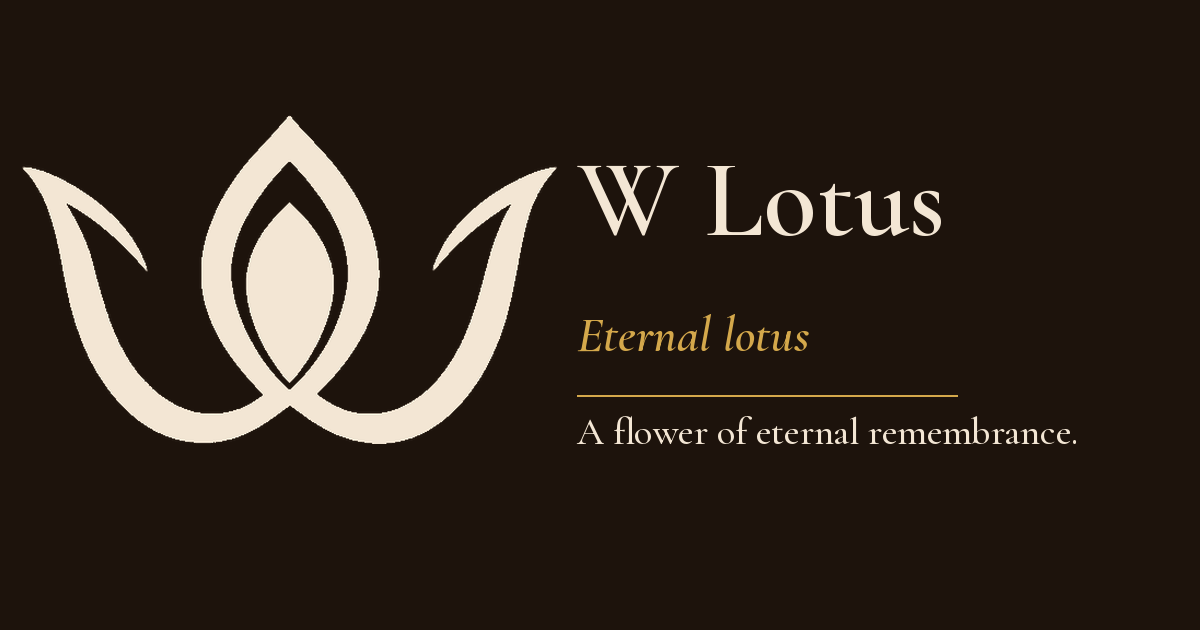
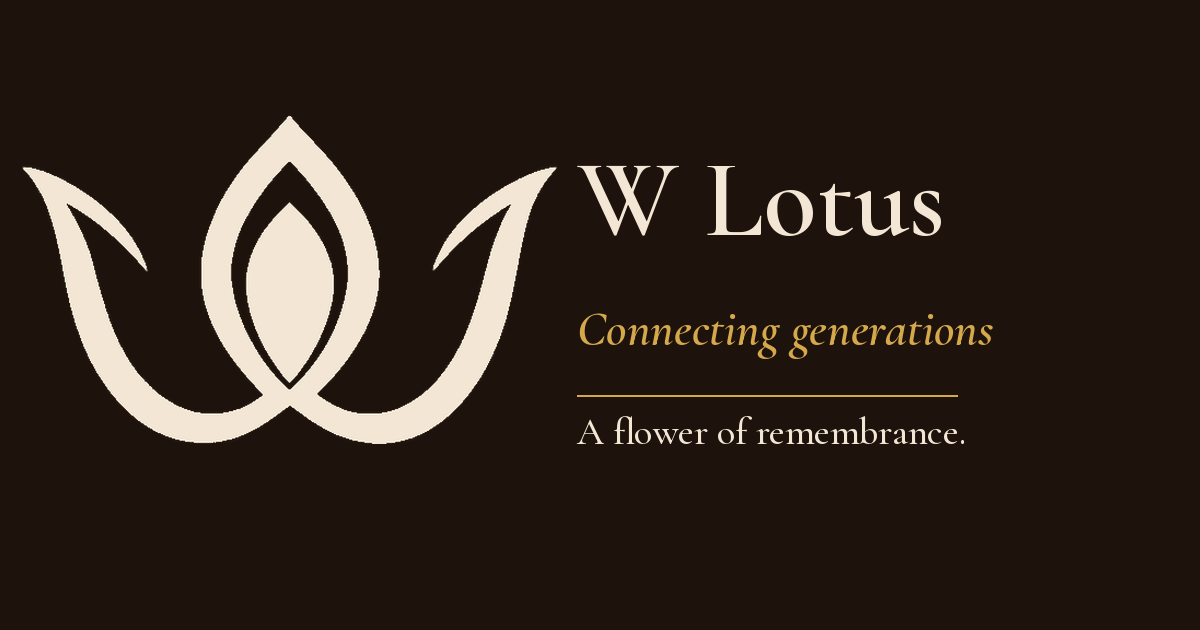
feat(web): connecting-generations headline and lotus-of-remembrance sub
Use Đoá sen (ceremonial blossom) rather than Bông. English headline is
plural: Connecting generations.

Changed region(s): [[0.4625, 0.4825, 0.8325, 0.573], [0.6167, 0.6635, 0.8942, 0.7238]]

diff --git a/apps/web/index.html b/apps/web/index.html
@@ -4,27 +4,27 @@
     <meta charset="UTF-8" />
     <meta name="viewport" content="width=device-width, initial-scale=1.0, viewport-fit=cover" />
     <meta name="theme-color" content="#0a0a0a" />
-    <meta name="description" content="Gửi lời tưởng nhớ vĩnh hằng trên W Lotus." />
+    <meta name="description" content="Đoá sen của sự tưởng nhớ." />
     <meta name="apple-mobile-web-app-capable" content="yes" />
     <meta name="apple-mobile-web-app-status-bar-style" content="black-translucent" />
     <meta name="apple-mobile-web-app-title" content="W Lotus" />
     <meta property="og:type" content="website" />
     <meta property="og:site_name" content="W Lotus" />
-    <meta property="og:title" content="W Lotus - Đoá sen vĩnh hằng" />
-    <meta property="og:description" content="Gửi lời tưởng nhớ vĩnh hằng trên W Lotus." />
+    <meta property="og:title" content="W Lotus - Sự kết nối các thế hệ" />
+    <meta property="og:description" content="Đoá sen của sự tưởng nhớ." />
     <meta property="og:image" content="/images/og.png" />
     <meta property="og:image:type" content="image/png" />
     <meta property="og:image:width" content="1200" />
     <meta property="og:image:height" content="630" />
-    <meta property="og:image:alt" content="W Lotus — đoá sen vĩnh hằng" />
+    <meta property="og:image:alt" content="W Lotus — đoá sen của sự tưởng nhớ" />
     <meta property="og:locale" content="vi_VN" />
     <meta property="og:locale:alternate" content="en_US" />
     <meta property="og:locale:alternate" content="zh_CN" />
     <meta name="twitter:card" content="summary_large_image" />
-    <meta name="twitter:title" content="W Lotus - Đoá sen vĩnh hằng" />
-    <meta name="twitter:description" content="Gửi lời tưởng nhớ vĩnh hằng trên W Lotus." />
+    <meta name="twitter:title" content="W Lotus - Sự kết nối các thế hệ" />
+    <meta name="twitter:description" content="Đoá sen của sự tưởng nhớ." />
     <meta name="twitter:image" content="/images/og.png" />
-    <meta name="twitter:image:alt" content="W Lotus — đoá sen vĩnh hằng" />
+    <meta name="twitter:image:alt" content="W Lotus — đoá sen của sự tưởng nhớ" />
     <link rel="icon" type="image/png" sizes="16x16" href="/images/wlotus-icon-16.png" />
     <link rel="icon" type="image/png" sizes="32x32" href="/images/wlotus-icon-32.png" />
     <link rel="apple-touch-icon" href="/images/wlotus-icon-180.png" />

diff --git a/tests/ogPreview.test.ts b/tests/ogPreview.test.ts
@@ -67,11 +67,9 @@ describe('ogPreview', () => {
   });
 
   it('uses brand fallback without a name', () => {
-    expect(ogCopy('vi', '').title).toBe('W Lotus - Đoá sen vĩnh hằng');
-    expect(ogCopy('vi', '').description).toBe(
-      'Gửi lời tưởng nhớ vĩnh hằng trên W Lotus.',
-    );
-    expect(ogCopy('en', '').title).toBe('W Lotus - Eternal lotus');
+    expect(ogCopy('vi', '').title).toBe('W Lotus - Sự kết nối các thế hệ');
+    expect(ogCopy('vi', '').description).toBe('Đoá sen của sự tưởng nhớ.');
+    expect(ogCopy('en', '').title).toBe('W Lotus - Connecting generations');
   });
 
   it('renders escaped OG HTML with SPA boot for browsers', () => {
@@ -96,8 +94,8 @@ describe('ogPreview', () => {
   });
 
   it('uses locale-specific image alt on the rosewood OG card', () => {
-    expect(ogImageAlt('en')).toBe('W Lotus — a flower of eternal remembrance');
-    expect(ogImageAlt('vi')).toContain('đoá sen vĩnh hằng');
+    expect(ogImageAlt('en')).toBe('W Lotus — a flower of remembrance');
+    expect(ogImageAlt('vi')).toContain('đoá sen của sự tưởng nhớ');
     const html = buildOgHtml({
       siteOrigin: 'https://wlotus.org',
       pathTxid: TX,
@@ -117,7 +115,7 @@ describe('ogPreview', () => {
       locale: 'en',
     });
     expect(en).toContain('https://test.wlotus.org/images/og-en.png');
-    expect(en).toContain('W Lotus - Eternal lotus');
+    expect(en).toContain('W Lotus - Connecting generations');
     expect(en).toContain(`?lang=en`);
     const zh = buildOgHtml({
       siteOrigin: 'https://test.wlotus.org',
@@ -125,6 +123,6 @@ describe('ogPreview', () => {
       locale: 'zh',
     });
     expect(zh).toContain('https://test.wlotus.org/images/og-zh.png');
-    expect(zh).toContain('永恒莲花');
+    expect(zh).toContain('连接世代');
   });
 });

diff --git a/apps/web/src/i18n/messages.ts b/apps/web/src/i18n/messages.ts
@@ -5,6 +5,7 @@ export type MessageKey =
   | 'brand'
   /** Wordmark next to the W logo — omit the leading W (it is in the mark). */
   | 'brandWithLogo'
+  | 'headline'
   | 'tagline'
   | 'offerTitle'
   | 'hintPrayMine'
@@ -192,7 +193,8 @@ type Dict = Record<MessageKey, string>;
 const en: Dict = {
   brand: 'W Lotus',
   brandWithLogo: 'Lotus',
-  tagline: 'A flower of eternal remembrance.',
+  headline: 'Connecting generations',
+  tagline: 'A flower of remembrance.',
   offerTitle: 'Offer a Flower',
   hintPrayMine:
     'A few minutes of remembrance on this device bring forth lotus flowers for memory and merit.',
@@ -405,7 +407,8 @@ const en: Dict = {
 const vi: Dict = {
   brand: 'W Lotus',
   brandWithLogo: 'Lotus',
-  tagline: 'Bông hoa của sự tưởng nhớ vĩnh hằng.',
+  headline: 'Sự kết nối các thế hệ',
+  tagline: 'Đoá sen của sự tưởng nhớ.',
   offerTitle: 'Dâng Hoa',
   hintPrayMine:
     'Một vài phút tưởng niệm trên máy sẽ sản sinh ra hoa sen để tưởng nhớ và công đức.',
@@ -617,7 +620,8 @@ const vi: Dict = {
 const zh: Dict = {
   brand: 'W Lotus',
   brandWithLogo: 'Lotus',
-  tagline: '永恒追思之花。',
+  headline: '连接世代',
+  tagline: '追思之花。',
   offerTitle: '献花',
   hintPrayMine:
     '在本机上花几分钟追思，即可生出莲花，用于功德与纪念。',

diff --git a/apps/dana-index/src/ogPreview.ts b/apps/dana-index/src/ogPreview.ts
@@ -46,11 +46,11 @@ export function ogImagePath(locale: OgLocale): string {
 export function ogImageAlt(locale: OgLocale): string {
   switch (locale) {
     case 'en':
-      return 'W Lotus — a flower of eternal remembrance';
+      return 'W Lotus — a flower of remembrance';
     case 'zh':
-      return 'W Lotus — 永恒追思之花';
+      return 'W Lotus — 追思之花';
     default:
-      return 'W Lotus — đoá sen vĩnh hằng';
+      return 'W Lotus — đoá sen của sự tưởng nhớ';
   }
 }
 
@@ -104,18 +104,18 @@ export function ogCopy(
   switch (locale) {
     case 'en':
       return {
-        title: 'W Lotus - Eternal lotus',
-        description: 'Send eternal remembrance on W Lotus.',
+        title: 'W Lotus - Connecting generations',
+        description: 'A flower of remembrance.',
       };
     case 'zh':
       return {
-        title: 'W Lotus - 永恒莲花',
-        description: '在 W Lotus 上寄托永恒的追思。',
+        title: 'W Lotus - 连接世代',
+        description: '追思之花。',
       };
     default:
       return {
-        title: 'W Lotus - Đoá sen vĩnh hằng',
-        description: 'Gửi lời tưởng nhớ vĩnh hằng trên W Lotus.',
+        title: 'W Lotus - Sự kết nối các thế hệ',
+        description: 'Đoá sen của sự tưởng nhớ.',
       };
   }
 }

diff --git a/apps/web/src/styles.css b/apps/web/src/styles.css
@@ -479,6 +479,16 @@ a {
   color: var(--ink);
 }
 
+.headline {
+  margin: 0 0 0.15rem;
+  color: var(--brand-ink);
+  font-family: var(--font-display);
+  font-size: 1.2rem;
+  font-weight: 600;
+  font-style: italic;
+  max-width: 36rem;
+}
+
 .tagline {
   margin: 0;
   color: var(--muted);

diff --git a/apps/web/src/App.tsx b/apps/web/src/App.tsx
@@ -1943,6 +1943,7 @@ export default function App() {
             <LangSwitch />
           </div>
         </div>
+        <p className="headline">{t('headline')}</p>
         <p className="tagline">{t('tagline')}</p>
       </header>
 

diff --git a/scripts/build-og-image.py b/scripts/build-og-image.py
@@ -62,22 +62,22 @@ CARDS = (
     {
         "locale": "vi",
         "file": "og.png",
-        "tag": "Đoá sen vĩnh hằng",
-        "body": "Bông hoa của sự tưởng nhớ vĩnh hằng.",
+        "tag": "Sự kết nối các thế hệ",
+        "body": "Đoá sen của sự tưởng nhớ.",
         "cjk": False,
     },
     {
         "locale": "en",
         "file": "og-en.png",
-        "tag": "Eternal lotus",
-        "body": "A flower of eternal remembrance.",
+        "tag": "Connecting generations",
+        "body": "A flower of remembrance.",
         "cjk": False,
     },
     {
         "locale": "zh",
         "file": "og-zh.png",
-        "tag": "永恒莲花",
-        "body": "永恒追思之花。",
+        "tag": "连接世代",
+        "body": "追思之花。",
         "cjk": True,
     },
 )

diff --git a/apps/dana-index/README.md b/apps/dana-index/README.md
@@ -32,9 +32,9 @@ The OG page boots the SPA in browsers; crawlers keep the meta tags.
 | Case | `og:title` (default VI) |
 |------|-------------------------|
 | Altar / named dedication | `Tưởng nhớ {name}` |
-| No name | `W Lotus - Đoá sen vĩnh hằng` |
+| No name | `W Lotus - Sự kết nối các thế hệ` |
 
-`og:description` (no name): `Gửi lời tưởng nhớ vĩnh hằng trên W Lotus.`
+`og:description` (no name): `Đoá sen của sự tưởng nhớ.`
 
 Optional `?lang=en|vi|zh` localizes the card. The web Share action embeds the
 **sender's** current app locale in the URL. Crawler `Accept-Language` is
